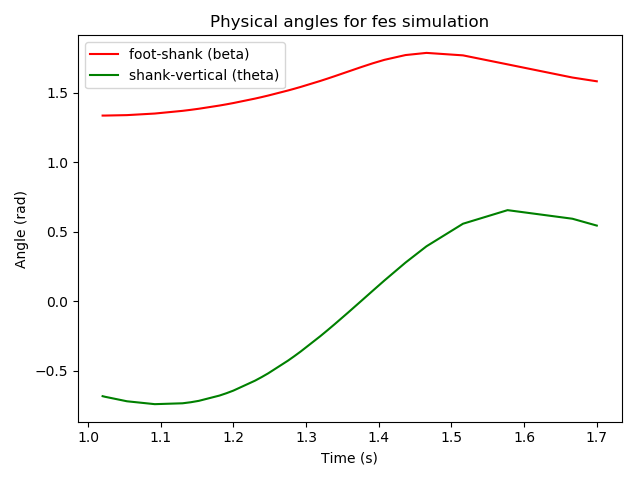
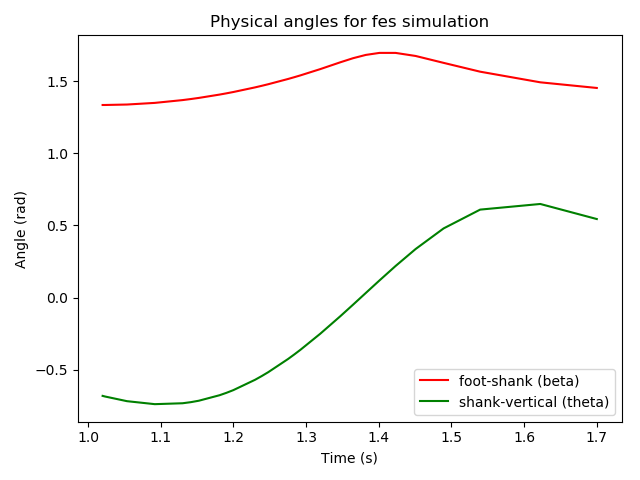
Controller optimization and final touches

diff --git a/controlPlots.py b/controlPlots.py
@@ -1,0 +1,53 @@
+import numpy as np
+import matplotlib.pyplot as plt 
+
+"""
+This file is used to plot manually extracted performance metrics for the FES simulations. 
+The K values reflect gains for the PID control used by FES.
+These values could have been extracted automatically, given more time to alter the simulation file.
+"""
+
+kp = {
+    "vals": [1, 2, 3, 4, 5],
+    "errs": [88.7867, 57.9171, 53.0463, 54.9969, 56.5750],
+    "fatigues": [4.9491, 3.7243, 3.5406, 3.2082, 2.5382]
+}
+
+kd = {
+    "vals": [0, 0.001, 0.002, 0.005, 0.01, 0.02],
+    "errs": [54.9969, 55.2986, 55.07, 54.32, 49.75, 54.64],
+    "fatigues": [3.2082, 3.23, 3.25, 3.22, 3.17, 3.33]
+}
+
+ki = {
+    "vals": [0, 0.00002, 0.00005, 0.0001, 0.0002, 0.0005],
+    "errs": [49.75, 49.72, 51.38, 53.37, 54.73, 55.53],
+    "fatigues": [3.17, 3.17, 3.20, 3.27, 3.31, 3.36]
+}
+
+fig, axs = plt.subplots(2)
+fig.suptitle("Optimal Kp value to minimize simulation results")
+axs[0].plot(kp["vals"], kp["errs"])
+axs[1].plot(kp["vals"], kp["fatigues"])
+axs[0].set(ylabel="total error")
+axs[1].set(ylabel="tibialis fatigue", xlabel='Kp values')
+plt.savefig("outputs/Kp.png")
+plt.close()
+
+fig, axs = plt.subplots(2)
+fig.suptitle("Optimal Kd value given Kp=4")
+axs[0].plot(kd["vals"], kd["errs"])
+axs[1].plot(kd["vals"], kd["fatigues"])
+axs[0].set(ylabel="total error")
+axs[1].set(ylabel="tibialis fatigue", xlabel='Kd values')
+plt.savefig("outputs/Kd.png")
+plt.close()
+
+fig, axs = plt.subplots(2)
+fig.suptitle("Optimal Ki value given Kp=4, Kd=0.01")
+axs[0].plot(ki["vals"], ki["errs"])
+axs[1].plot(ki["vals"], ki["fatigues"])
+axs[0].set(ylabel="total error")
+axs[1].set(ylabel="tibialis fatigue", xlabel='Ki values')
+plt.savefig("outputs/Ki.png")
+plt.close()

diff --git a/main.py b/main.py
@@ -1,8 +1,9 @@
 from gait_simulate import GaitSimulator 
 import muscle
 
-# GaitSimulator().simulate()
+GaitSimulator().simulate()
 
-# GaitSimulator(footDrop=True).simulate()
+GaitSimulator(footDrop=True).simulate()
 
-GaitSimulator(footDrop=True, fes=True, Kp=2, Kd=1/200, Ki=0).simulate()
+GaitSimulator(footDrop=True, fes=True, Kp=4, Kd=1/100, Ki=0).simulate()
+

diff --git a/README.md b/README.md
@@ -1,3 +1,9 @@
 BME 355 course project. Modelling the shank-foot complex through the gait cycles, for normal gait and with foot drop syndrome.
 
-The model consists of rigid body physics for the food, shank, and upper leg segments. The upper leg is simplified and only torques from the knee and hip are considered in the forces. The model is simulated over time for various scenarios.
+The model consists of rigid body physics for the food, shank, and upper leg segments. The upper leg is simplified and only torques from the knee and hip are considered in the forces. The model is simulated from 60% to 100% of the gait cycle for normal gait, foot drop, and foot drop with FES scenarios. FES is implemented as PID controller. 
+
+**To Run**
+Requires: `numpy, `scipy, `sklearn`, and `matplotlib` libraries to be installed
+Run with `python main.py`.
+Edit and run `python controlPlots.py` to optimize your controller gains. 
+
